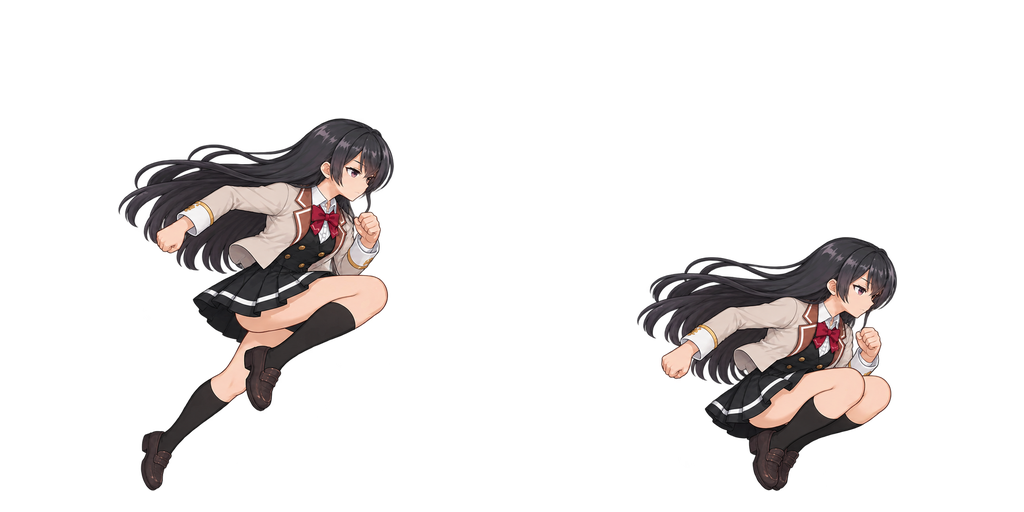
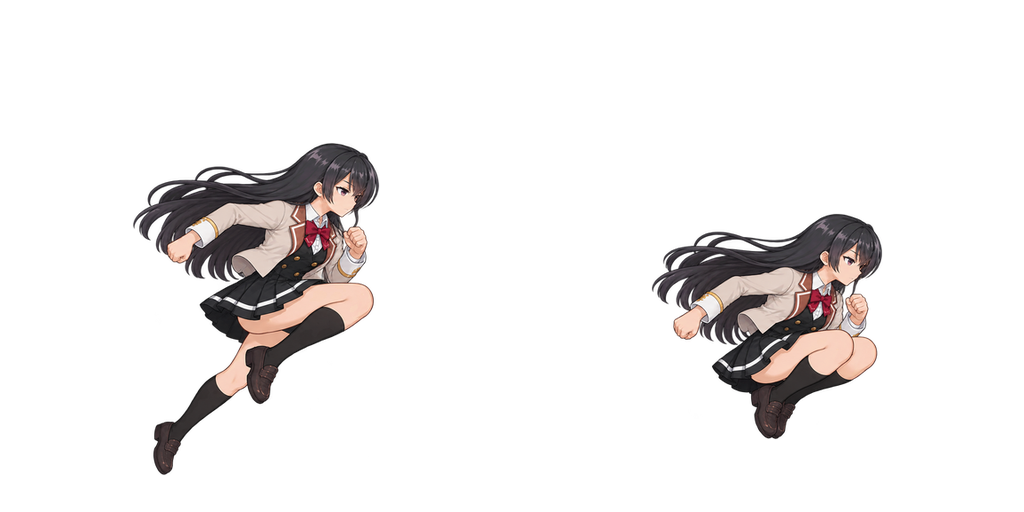
Update Yuki kick animation and align An jump sprites and capsules

Changed region(s): [[0.0938, 0.2188, 0.4062, 0.9688], [0.625, 0.4062, 0.875, 0.9688]]

diff --git a/src/capsule-preview.ts b/src/capsule-preview.ts
@@ -34,6 +34,16 @@ if(!localStorage.getItem(emberImportKey)){
  for(const [key,value] of Object.entries(normalize(sourceEdits)))if(key.startsWith('ember/'))edits[key]=value;
  localStorage.setItem(storageKey,JSON.stringify(edits));localStorage.setItem(emberImportKey,'done');
 }
+// Import matching jump capsules once so stale drafts cannot overwrite the source update.
+const jumpMatchKey=storageKey+'-an-yuki-jump-match-v1';
+if(!localStorage.getItem(jumpMatchKey)){
+ localStorage.setItem(jumpMatchKey+'-backup',localStorage.getItem(storageKey)??'{}');
+ for(const character of ['an','yuki'])for(let i=0;i<2;i++){
+  const key=`${character}/jump/${i}`;
+  edits[key]=structuredClone((sourceEdits as CapsuleEdits)[key]);
+ }
+ draftRun();localStorage.setItem(jumpMatchKey,'done');
+}
 const authoredFrame=()=>Number(frame.value)-1;
 const selectedKey=()=>`${who.value}/${action.value}/${authoredFrame()}`;
 let selected=0;
